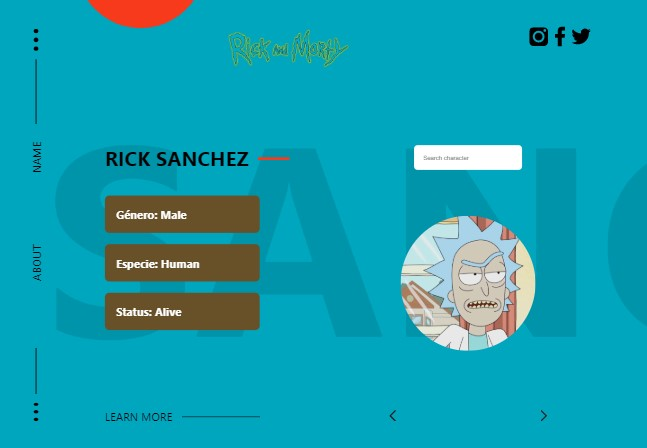
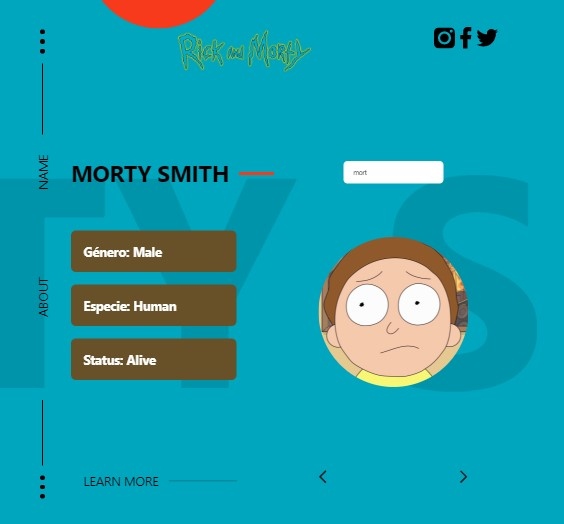
relative path added

diff --git a/src/next.js b/src/next.js
@@ -18,9 +18,9 @@ function Next() {
   async function handleClick() {
     NProgress.start();
     if (context.character.id >= 1 && context.character.id < 591) {
-      history.push(`/${context.character.id + 1}`);
+      history.push(`${process.env.PUBLIC_URL}/${context.character.id + 1}`);
     } else {
-      history.push(`/${context.character.id}`);
+      history.push(`${process.env.PUBLIC_URL}/${context.character.id}`);
     }
     // context.setCharacter(await api.getCharacter(context.character.id + 1));
     NProgress.done();

diff --git a/src/before.js b/src/before.js
@@ -17,9 +17,9 @@ function Before() {
   async function handleClick() {
     NProgress.start();
     if (context.character.id > 1 && context.character.id < 592) {
-      history.push(`/${context.character.id - 1}`);
+      history.push(`${process.env.PUBLIC_URL}/${context.character.id - 1}`);
     } else {
-      history.push(`/${context.character.id}`);
+      history.push(`${process.env.PUBLIC_URL}/${context.character.id}`);
     }
 
     // context.setCharacter(await api.getCharacter(context.character.id + 1));

diff --git a/src/layout.js b/src/layout.js
@@ -52,12 +52,12 @@ const LayoutStyled = styled.div`
     display: flex;
     justify-content: space-around;
     align-items: center;
-    margin-top: 5em;
+    margin-top: 6em;
   }
 
   .learn-more-area {
     grid-area: learn-more;
-    margin-top: calc(14vh);
+    margin-top: calc(10vh);
   }
 
   .asset-area {
@@ -91,6 +91,7 @@ const LayoutStyled = styled.div`
 
   .search-area {
     grid-area: search;
+    margin: auto auto;
   }
 
   @media screen and (max-width: 1024px) {

diff --git a/src/search.js b/src/search.js
@@ -14,10 +14,10 @@ const SearchStyled = styled.input`
   /* } */
 
   @media screen and (max-width: 1024px) {
-    margin: 40px calc(50vw - 8em);
+    margin: 40px calc(50vw - 6em);
   }
   @media screen and (max-width: 768px) {
-    margin: 40px calc(50vw - 8em);
+    margin: 40px calc(50vw - 6em);
   }
 `;
 

diff --git a/README.md b/README.md
@@ -10,3 +10,5 @@ Rick and Morty project using react and react and morty API.
 
 Runs the app in the development mode.<br />
 Open [http://localhost:3000](http://localhost:3000) to view it in the browser.
+
+![rick-and-morty-react](./public/images/view_Image.jpg)
